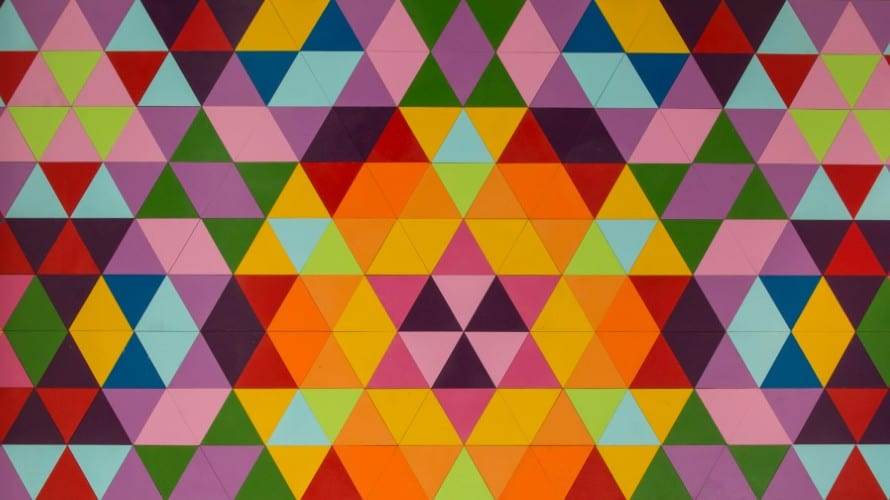
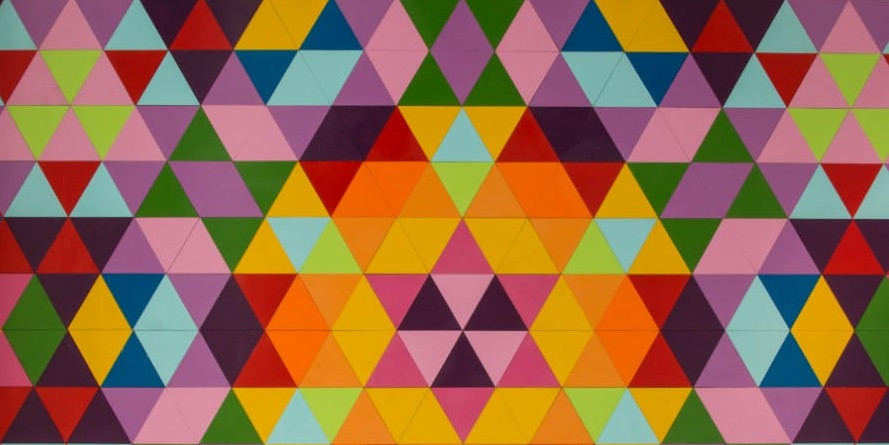
re-sized images
amended images for better response

diff --git a/index.html b/index.html
@@ -92,8 +92,8 @@
 		<section id="main-content">
 		<div id="guts">
       <p>Lorem ipsum dolor sit amet, consectetur adipiscing elit, sed do eiusmod tempor incididunt ut labore et dolore magna aliqua. Ut enim ad minim veniam, quis nostrud exercitation ullamco laboris nisi ut aliquip ex ea commodo consequat. Duis aute irure dolor in reprehenderit in voluptate velit esse cillum dolore eu fugiat nulla pariatur. Excepteur sint occaecat cupidatat non proident, sunt in culpa qui officia deserunt mollit anim id est laborum</p>
-      <div class="embed-responsive embed-responsive-16by9">
-      <iframe class="embed-responsive-item" src="./carousel.html" allowfullscreen></iframe>
+      <div class="embed-responsive embed-responsive-16by9" allowfullscreen>
+      <iframe class="embed-responsive-item" src="./carousel.html" seamless></iframe>
     </div>
 
 		</div>

diff --git a/carousel.html b/carousel.html
@@ -21,19 +21,19 @@
 
     <div class="mySlides fade">
       <div class="numbertext">1 / 3</div>
-      <img src="./images/A.jpg" style="width:100%">
+      <img src="./images/A.jpg" style="width:100%" class="responsive">
       <div class="text">Caption Text</div>
     </div>
 
     <div class="mySlides fade">
       <div class="numbertext">2 / 3</div>
-      <img src="./images/B.jpg" style="width:100%">
+      <img src="./images/B.jpg" style="width:100%" class="responsive">
       <div class="text">Caption Two</div>
     </div>
 
     <div class="mySlides fade">
       <div class="numbertext">3 / 3</div>
-      <img src="./images/C.jpg" style="width:100%">
+      <img src="./images/C.jpg" style="width:100%" class="responsive">
       <div class="text">Caption Three</div>
     </div>
 

diff --git a/css/carousel.css b/css/carousel.css
@@ -5,7 +5,7 @@
 
 /* Slideshow container */
 .slideshow-container {
-  max-width: 1000px;
+  max-height: 90%;
   position: relative;
   margin: auto;
 }
